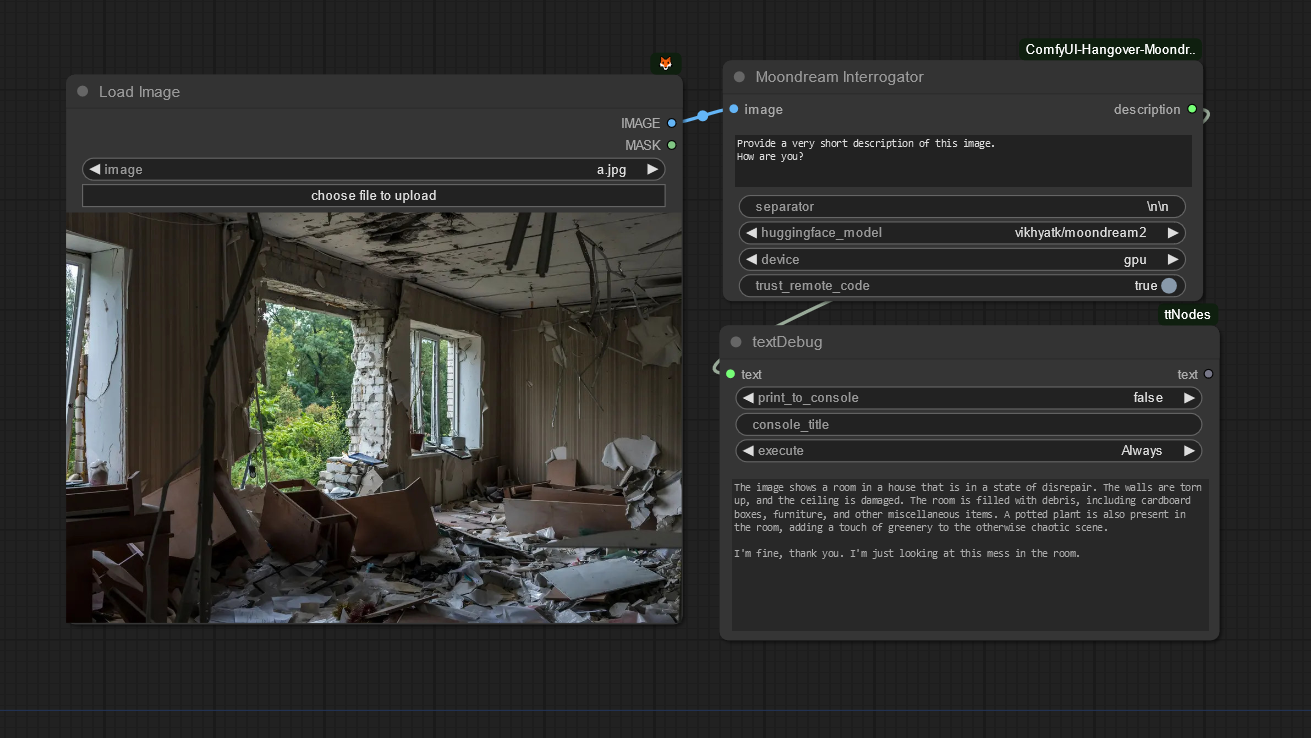
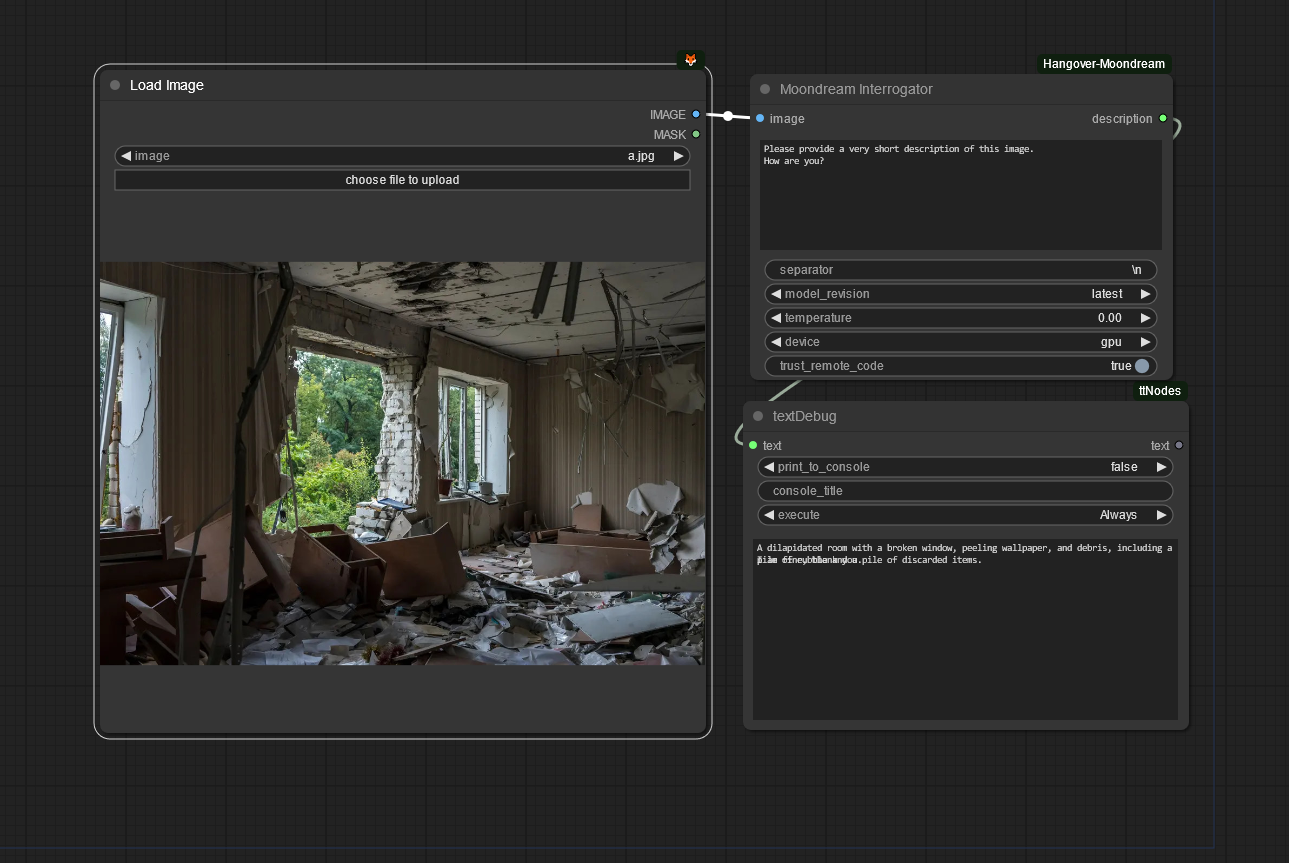
model revision and temperature selector

diff --git a/ho_moondream.py b/ho_moondream.py
@@ -17,13 +17,15 @@ import numpy as np
 import codecs
 
 class Moondream:
-    HUGGINGFACE_MODEL_NAMES = ["vikhyatk/moondream2",] # other/newer models can be added here
+    HUGGINGFACE_MODEL_NAME = "vikhyatk/moondream2"
+    MODEL_REVISIONS = ["latest", "2024-03-06", "2024-03-13", "2024-04-02"]
     DEVICES = ["cpu", "gpu"] if torch.cuda.is_available() else  ["cpu"]
 
     def __init__(self):
         self.model = None
         self.tokenizer = None
-        self.modelname = ""
+        # self.modelname = ""
+        self.revision = None
 
     @classmethod
     def INPUT_TYPES(s):
@@ -32,7 +34,9 @@ class Moondream:
                 "image": ("IMAGE",),
                 "prompt": ("STRING", {"multiline": True, "default": "Please provide a detailed description of this image."},),
                 "separator": ("STRING", {"multiline": False, "default": r"\n"},),
-                "huggingface_model": (s.HUGGINGFACE_MODEL_NAMES, {"default": s.HUGGINGFACE_MODEL_NAMES[0]},),
+                # "huggingface_model": (s.HUGGINGFACE_MODEL_NAMES, {"default": s.HUGGINGFACE_MODEL_NAMES[-1]},),
+                "model_revision": (s.MODEL_REVISIONS, {"default": s.MODEL_REVISIONS[0]},),
+                "temperature": ("FLOAT", {"min": 0.0, "max": 1.0, "step": 0.01, "default": 0.},),
                 "device": (s.DEVICES, {"default": s.DEVICES[0]},),
                 "trust_remote_code": ("BOOLEAN", {"default": False},),
             }
@@ -44,10 +48,17 @@ class Moondream:
     OUTPUT_NODE = False
     CATEGORY = "Hangover"
 
-    def interrogate(self, image:torch.Tensor, prompt:str, separator:str, huggingface_model:str, device:str, trust_remote_code:bool):
+    def interrogate(self, image:torch.Tensor, prompt:str, separator:str, model_revision:str, temperature:float, device:str, trust_remote_code:bool):
+        if not trust_remote_code:
+            raise ValueError("You have to trust remote code to use this node!")
         dev = "cuda" if device.lower() == "gpu" else "cpu"
+        if temperature < 0.01:
+            temperature = None
+            do_sample = False
+        else:
+            do_sample = True
 
-        if (self.model == None) or (self.tokenizer == None) or (self.modelname != huggingface_model) or (device != self.device):
+        if (self.model == None) or (self.tokenizer == None) or (device != self.device) or (model_revision != self.revision):
             del self.model
             del self.tokenizer
             gc.collect()
@@ -55,15 +66,19 @@ class Moondream:
                 torch.cuda.empty_cache()
             self.model = None
             self.tokenizer = None
-            print(f"moondream: loading model {huggingface_model}, please stand by....")
-            try:
-                self.model = AutoModelForCausalLM.from_pretrained(huggingface_model, trust_remote_code=trust_remote_code).to(dev)
-            except ValueError:
-                print("Moondream: You have to trust remote code to use this node!")
-                return ("You have to trust remote code execution to use this node!",)
+            self.revision = model_revision
+
+            print(f"[Moondream] loading model moondream2 revision '{model_revision}', please stand by....")
+            if model_revision == Moondream.MODEL_REVISIONS[0]:
+                model_revision = None
+            self.model = AutoModelForCausalLM.from_pretrained(
+                Moondream.HUGGINGFACE_MODEL_NAME, 
+                trust_remote_code=trust_remote_code,
+                revision=model_revision
+            ).to(dev)
             
-            self.tokenizer = Tokenizer.from_pretrained(huggingface_model)
-            self.modelname = huggingface_model
+            self.tokenizer = Tokenizer.from_pretrained(Moondream.HUGGINGFACE_MODEL_NAME)
+            # self.modelname = huggingface_model
             self.device = device
 
         descriptions = ""
@@ -71,16 +86,18 @@ class Moondream:
         if len(prompts) == 0:
             prompts = [""]
         
-        for im in image:
-            i = 255. * im.cpu().numpy()
-            img = Image.fromarray(np.clip(i, 0, 255).astype(np.uint8))
-            enc_image = self.model.encode_image(img)
-            descr = ""
-            sep = codecs.decode(separator, 'unicode_escape')
-            for p in prompts:
-                answer = self.model.answer_question(enc_image, p, self.tokenizer)
-                descr += f"{answer}{sep}"
-            descriptions += f"{descr[0:-len(sep)]}\n"
+        try:
+            for im in image:
+                i = 255. * im.cpu().numpy()
+                img = Image.fromarray(np.clip(i, 0, 255).astype(np.uint8))
+                enc_image = self.model.encode_image(img)
+                descr = ""
+                sep = codecs.decode(separator, 'unicode_escape')
+                for p in prompts:
+                    answer = self.model.answer_question(enc_image, p, self.tokenizer, temperature=temperature, do_sample=do_sample)
+                    descr += f"{answer}{sep}"
+                descriptions += f"{descr[0:-len(sep)]}\n"
+        except RuntimeError:
+            raise ValueError(f"[Moondream] model revision {self.revision} is outdated. Please select a newer one.")
         
         return(descriptions[0:-1],)
-        # return(descriptions,)

diff --git a/README.md b/README.md
@@ -6,7 +6,7 @@
 
 ![Alt text](images/workflow2.png)
 
-👍 For testing, research and fun. There might be issues when loading this node, and/or additional packages needs to be installed. It worked fine after I reinstalled the latest release of ComfyUI.
+👍 For testing, research and fun.
 
 ## Updates
 
@@ -14,5 +14,7 @@
 * Model/code update [moondream2](https://huggingface.co/vikhyatk/moondream2). This should resolve issues with the 'Tensor size mismatch' error when using newer versions of transformers.**Make sure that you select the moondream2 model within the node to receive the updated files from huggingface.** If moondream2 works fine, you can remove the old model files, usually located in the user\\.cache\huggingface folder: hub\models--vikhyatk--moondream1 and modules\transformers_modules\vikhyatk\moondream1 to save disk space.🔄
 * End support for moondream1 in order to change the license for this repository to [Apache 2.0](https://choosealicense.com/licenses/apache-2.0/).
 * New multi prompt feature: Ask several questions at once. Just place each prompt on a new line. 🔄
+* Added model revision selector. 🔄
+* Added model temerature selector. Set this value to 0 to use the models default temperature. 🔄
 
 ## To do
